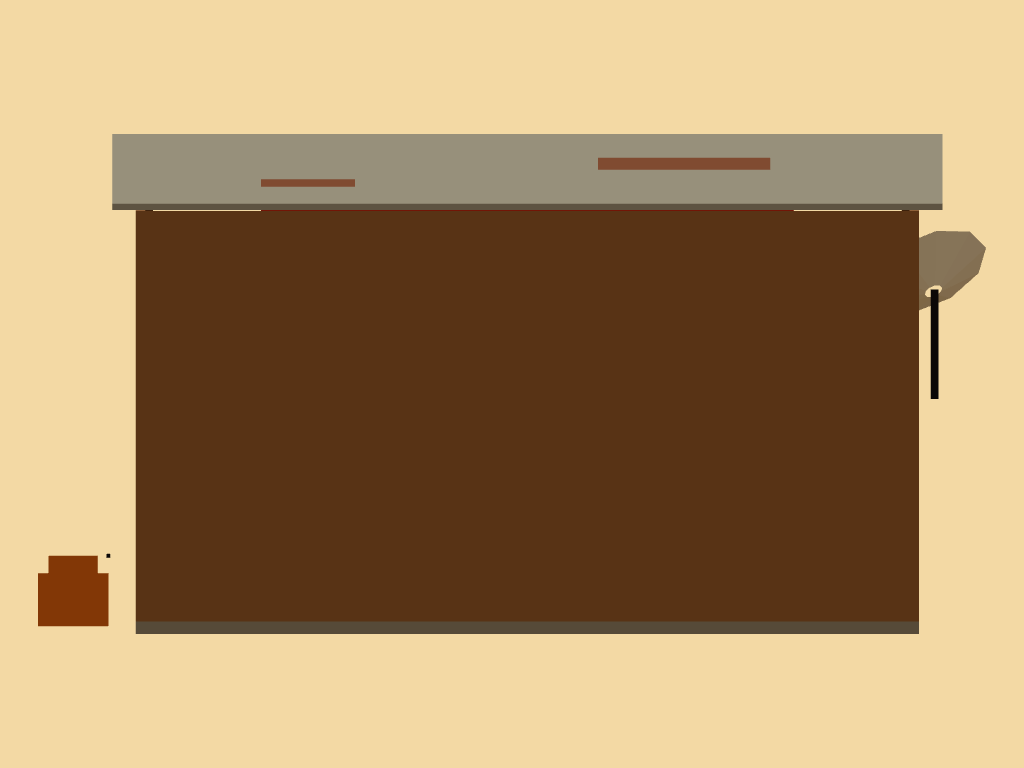
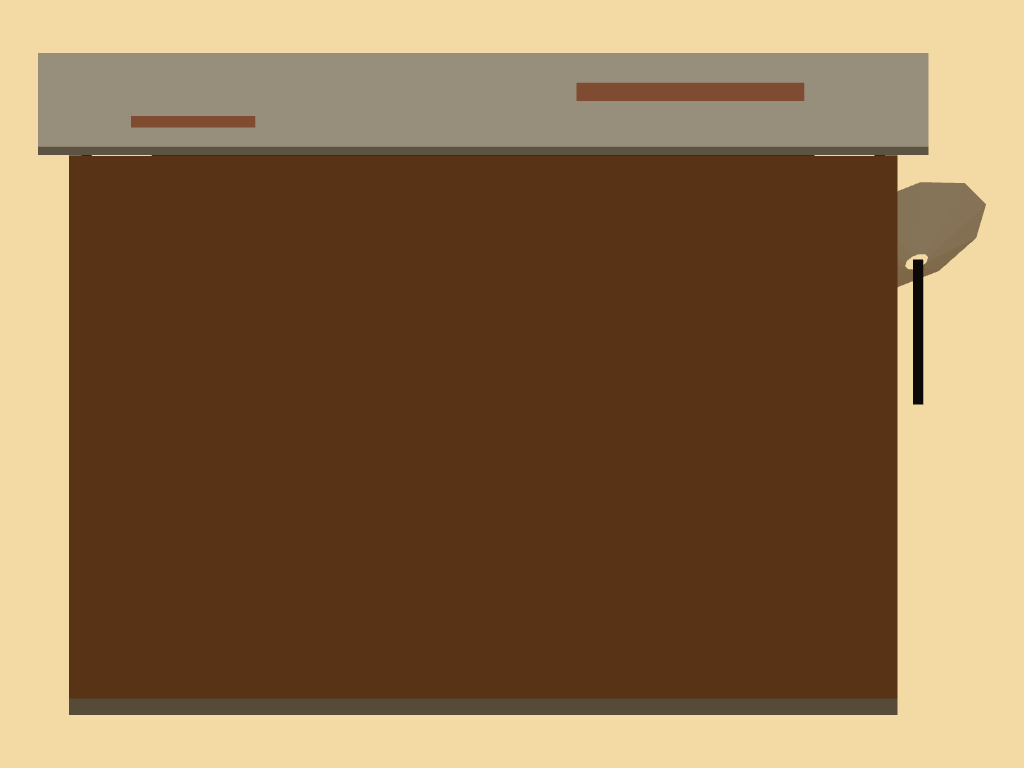
The street's things stand on Ojuelegba, Bode Thomas and Tejuosho, each opening its act
- The suya spot and the mallam's bench, the barber, the viewing centre, the joint and the clothes stall

diff --git a/apps/client/src/features/city/places/street-things.test.ts b/apps/client/src/features/city/places/street-things.test.ts
@@ -1,0 +1,152 @@
+// The street's things of decision 0037 (docs/rules/streets.md R-STREET-011; world.md R-WORLD-005): the suya spot
+// and the mallam's bench on Ojuelegba, the barber, the viewing centre and the joint on Bode Thomas, the clothes stall
+// at Tejuosho. Each stands on the pavement as a model the player taps, opens the act content stages there, and keeps
+// the hours the world's clock gives it (clock.md R-CLOCK-033). Bode Thomas's whole frontage is checked in cargo.test.ts;
+// Ojuelegba's and Tejuosho's here on what the new things touch: the budget, the ground, the floors and the staged acts.
+import { type Footprint, isFootprint } from "@japacity/assets";
+import { content, text } from "@japacity/content";
+import type { Id } from "@japacity/sim";
+import { describe, expect, test } from "vitest";
+
+import bodeRaw from "../../../../public/assets/places/bode-thomas-front/place.json";
+import ojuelegbaRaw from "../../../../public/assets/places/ojuelegba-front/place.json";
+import tejuoshoRaw from "../../../../public/assets/places/tejuosho-front/place.json";
+import type { Act, Thing } from "../../../shared/world/contract";
+import { plainActLine } from "../actLines";
+import type { Stage } from "../placeFile";
+import { sceneWords } from "../scene.words";
+import { thingSpot, thingsNow } from "../things";
+import { checkFaces, type ModelFace } from "../../../../../../tools/assets/faces-check";
+import { checkWalkable } from "../../../../../../tools/assets/footprint-check";
+import { actEntries } from "./frontageTesting";
+import { instancesOf, measured, rowOf, staged, totalsOf } from "./placeTesting";
+
+interface Expected {
+  thing: string;
+  model: string;
+  name: string;
+  act: Act;
+}
+
+const STREETS: { raw: unknown; id: Id<"place">; things: Expected[] }[] = [
+  {
+    raw: ojuelegbaRaw,
+    id: "place.ojuelegba",
+    things: [
+      { thing: "suya", model: "shared/prop/prop_suya-grill.glb", name: "Suya spot", act: { id: "suya", label: "city.act.suya", kind: "sheet", stages: "activity.buy-suya" } },
+      { thing: "tea", model: "places/peckham/prop_street-bench.glb", name: "The mallam's bench", act: { id: "tea", label: "city.act.tea", kind: "sheet", stages: "activity.mallam-tea", more: ["activity.pure-water"], pose: "sit" } },
+    ],
+  },
+  {
+    raw: bodeRaw,
+    id: "place.bode-thomas",
+    things: [
+      { thing: "barber", model: "places/bode-thomas/shop_barber-kiosk.glb", name: "Barber", act: { id: "cut", label: "city.act.barber", kind: "sheet", stages: "activity.barber" } },
+      { thing: "viewing", model: "places/bode-thomas/shop_viewing-centre.glb", name: "Viewing centre", act: { id: "match", label: "city.act.match", kind: "sheet", stages: "activity.viewing-centre", parts: ["evening", "night"], pose: "sit" } },
+      { thing: "joint", model: "shared/prop/prop_joint-set.glb", name: "The joint", act: { id: "drink", label: "city.act.joint", kind: "sheet", stages: "activity.beer-joint", more: ["activity.night-out"], parts: ["evening", "night"], pose: "sit" } },
+    ],
+  },
+  {
+    raw: tejuoshoRaw,
+    id: "place.tejuosho-market",
+    things: [{ thing: "clothes", model: "places/tejuosho-market/prop_market-stall.glb", name: "Clothes stall", act: { id: "clothes", label: "city.act.clothes", kind: "sheet", stages: "activity.buy-clothes" } }],
+  },
+];
+
+/** The raised strips either side of the carriageway: the kerbs, nearest the street's middle. */
+function carriageway(stage: Stage): [number, number] {
+  const kerbs = stage.roads.filter((road) => road.raise !== undefined && road.colour === "concrete").map((road) => road.at[1]);
+  return [Math.min(...kerbs), Math.max(...kerbs)];
+}
+
+function thingOf(stage: Stage, id: string): Thing {
+  const found = (stage.things ?? []).find((thing) => thing.id === id);
+  if (found === undefined) throw new Error(`No ${id}`);
+  return found;
+}
+
+describe.each(STREETS)("the street's things at $id", ({ raw, id, things }) => {
+  const { file, stage, entry } = staged(raw, id);
+
+  test.each(things)(`[R-WORLD-005] [R-STREET-011] given ${id}'s $thing, when it is read, then it stands at its own model with its name and the one act that opens what content stages there`, ({ thing: thingId, model, name, act }) => {
+    const thing = thingOf(stage, thingId);
+    expect(thing.file).toBe(model);
+    expect(sceneWords(thing.label)).toBe(name);
+    const { seat, ...rest } = thing.acts[0] ?? act;
+    expect(thing.acts).toHaveLength(1);
+    expect(rest).toEqual(act);
+    expect(seat === undefined).toBe(act.pose === undefined);
+    for (const stages of [act.stages ?? "", ...(act.more ?? [])]) {
+      expect(entry.stages).toContain(stages);
+      expect(content.activity[stages as Id<"activity">]).toBeDefined();
+      expect(text[`${stages}.name`]?.trim()).toBeTruthy();
+    }
+  });
+
+  test.each(things)(`[R-WORLD-005] [R-STREET-011] given ${id}'s $thing, when its model and its spots are read, then the model stands on a pavement clear of the carriageway, the thing is beside it and a seat is on the model`, ({ thing: thingId }) => {
+    const thing = thingOf(stage, thingId);
+    const copy = stage.models.find((model) => model.file === thing.file)?.at[thing.copy];
+    if (copy === undefined) throw new Error(`${thingId} has no copy`);
+    const [north, south] = carriageway(stage);
+    expect(copy[1] < north - 1 || copy[1] > south + 1).toBe(true);
+    const spot = thingSpot(stage, thing);
+    if (spot === null || thing.at === undefined) throw new Error(`${thingId} names no spot`);
+    expect(Math.hypot(thing.at[0] - copy[0], thing.at[1] - copy[1])).toBeLessThan(3.5);
+    const seat = thing.acts[0]?.seat;
+    expect(seat === undefined || Math.hypot(seat[0] - copy[0], seat[1] - copy[1]) < 2).toBe(true);
+  });
+
+  test(`[R-ASSET-007] given ${id} with its new things, when the frontage is counted as the build check counts it, then both modes stay inside the exterior row and the instances are the copies staged`, async () => {
+    const totals = await totalsOf(file);
+    for (const mode of ["low", "high"] as const) {
+      expect(totals[mode].drawCalls).toBeLessThanOrEqual(rowOf(file).drawCalls);
+      expect(totals[mode].triangles).toBeLessThanOrEqual(rowOf(file).triangles);
+    }
+    expect(file.instances).toEqual(instancesOf(stage));
+  });
+
+  test(`[R-WORLD-005] [R-STREET-011] given what ${id} stages in content, when its things' acts are read, then every staged entry opens from an act of a thing there`, () => {
+    const opened = new Set(actEntries(raw, id));
+    expect(entry.stages.filter((stages) => !opened.has(stages))).toEqual([]);
+  });
+
+  test(`[R-CITY-014] [R-WORLD-012] [R-ASSET-030] given ${id}'s models with the new things, when the ground is read, then the crowd and the start stand clear of every footprint and no two floors lie within a centimetre`, async () => {
+    const models = [...new Set(stage.models.map((model) => model.file))];
+    const footprints = new Map<string, Footprint>();
+    const floors = new Map<string, readonly ModelFace[]>();
+    for (const path of models) {
+      const found = await measured(path);
+      if (isFootprint(found.extras.footprint)) footprints.set(path, found.extras.footprint);
+      floors.set(path, found.floors ?? []);
+    }
+    expect(checkWalkable(id, stage, footprints)).toEqual([]);
+    expect(checkFaces(id, stage, (path) => floors.get(path) ?? [])).toEqual([]);
+  });
+});
+
+describe("the hours on Bode Thomas", () => {
+  const { stage } = staged(bodeRaw, "place.bode-thomas");
+  const street = stage.things ?? [];
+  const all = () => true;
+
+  test("[R-CLOCK-033] [R-WORLD-005] [R-STREET-011] given the viewing centre and the joint, when the world stands in the evening or at night, then each opens its sheet and sits the figure on its bench or chair", () => {
+    for (const part of ["evening", "night"] as const) {
+      const now = thingsNow(street, all, part);
+      expect(thingOf({ ...stage, things: now }, "viewing").acts[0]).toMatchObject({ kind: "sheet", stages: "activity.viewing-centre", pose: "sit" });
+      expect(thingOf({ ...stage, things: now }, "joint").acts[0]).toMatchObject({ kind: "sheet", stages: "activity.beer-joint", more: ["activity.night-out"], pose: "sit" });
+    }
+  });
+
+  test("[R-CLOCK-033] [R-WORLD-005] [R-STREET-011] given the viewing centre and the joint, when the world stands in the morning or the afternoon, then both still stand shut, saying they open in the evening and why, while the barber stays open", () => {
+    for (const part of ["morning", "afternoon"] as const) {
+      const now = { ...stage, things: thingsNow(street, all, part) };
+      const viewing = thingOf(now, "viewing");
+      const joint = thingOf(now, "joint");
+      expect(viewing.acts.map((act) => sceneWords(act.label))).toEqual(["Opens in the evening"]);
+      expect(joint.acts.map((act) => sceneWords(act.label))).toEqual(["Opens in the evening"]);
+      expect(plainActLine(viewing, viewing.acts[0] ?? { label: "" })).toEqual({ kind: "tell", words: "Shut till evening. The screen is dark." });
+      expect(plainActLine(joint, joint.acts[0] ?? { label: "" })).toEqual({ kind: "tell", words: "The chairs are stacked. Come back in the evening." });
+      expect(thingOf(now, "barber").acts[0]?.stages).toBe("activity.barber");
+    }
+  });
+});

diff --git a/assets-src/shop/viewing-centre/build.ts b/assets-src/shop/viewing-centre/build.ts
@@ -6,10 +6,10 @@ import { setFootprint } from "@japacity/assets";
 import { box, cylinder, dish, extrude, floorQuad, generator, onWall, posters, quad, seeded, stain } from "@japacity/assets/kit";
 import { Group, type Mesh } from "three";
 
-export const VIEWING_CENTRE = { width: 5.0, depth: 4.2, front: 3.1, back: 2.7, slab: 0.08, seat: 0.44 } as const;
+export const VIEWING_CENTRE = { width: 4.0, depth: 3.6, front: 3.1, back: 2.7, slab: 0.08, seat: 0.44 } as const;
 
 /** The benches' rows, front to back: the z of each bench's middle in the shed's frame. */
-export const VIEWING_ROWS: readonly number[] = [-0.55, 0.35, 1.25];
+export const VIEWING_ROWS: readonly number[] = [-0.55, 0.25, 1.05];
 
 /** A disc facing +Z: a cylinder laid on its side. */
 function disc(g: Group, r: number, x: number, y: number, z: number, colour: "white" | "black", segments = 8): Mesh {
@@ -54,36 +54,36 @@ export function buildViewingCentre(dishYaw: number): Group {
   floorQuad(roof, 0.6, 0.5, 1.4, 0.045, -0.9, "zincRust");
   // The wide dark screen on the back wall, its frame, the decoder on a shelf under it and the cables down the wall.
   const wall = onWall(g, 0, 0, -hd + 0.061);
-  box(wall, 2.3, 1.3, 0.08, 0, 1.15, 0.04, "black");
-  quad(wall, 2.14, 1.16, 0, 1.22, 0.081, "glass");
+  box(wall, 2.1, 1.2, 0.08, 0, 1.2, 0.04, "black");
+  quad(wall, 1.94, 1.06, 0, 1.27, 0.081, "glass");
   box(wall, 0.6, 0.04, 0.28, 0, 0.82, 0.14, "darkWood");
   box(wall, 0.36, 0.07, 0.22, -0.08, 0.86, 0.14, "black");
-  quad(wall, 0.03, 0.8, 1.05, 0.08, 0.004, "black");
+  quad(wall, 0.03, 0.85, 0.95, 0.08, 0.004, "black");
   // Three rows of benches facing the screen: a plank seat on three trestles each.
   for (const bz of VIEWING_ROWS) {
-    box(g, 3.6, 0.05, 0.32, 0, slab + seat - 0.05, bz, "wood");
-    for (const bx of [-1.6, 0, 1.6]) box(g, 0.08, seat - 0.05, 0.28, bx, slab, bz, "darkWood");
+    box(g, 3.0, 0.05, 0.32, 0, slab + seat - 0.05, bz, "wood");
+    for (const bx of [-1.3, 0, 1.3]) box(g, 0.08, seat - 0.05, 0.28, bx, slab, bz, "darkWood");
   }
   // The hand-painted board over the opening: yellow, edged red, a ball in the middle, the flag's green and white either side.
   const board = onWall(g, 0, 0, hd + 0.02);
   const low = front - 0.86;
-  box(board, 3.4, 0.7, 0.05, 0, low, 0, "red");
-  quad(board, 3.28, 0.58, 0, low + 0.06, 0.026, "danfoYellow");
+  box(board, 3.2, 0.7, 0.05, 0, low, 0, "red");
+  quad(board, 3.08, 0.58, 0, low + 0.06, 0.026, "danfoYellow");
   disc(board, 0.24, 0, low + 0.35, 0.04, "white");
   for (const [px, py] of [[0, 0.04], [-0.12, -0.08], [0.12, -0.08]] as const) disc(board, 0.06, px, low + 0.35 + py, 0.052, "black", 5);
   for (const side of [-1, 1]) {
-    for (const [i, colour] of (["green", "white", "green"] as const).entries()) quad(board, 0.26, 0.4, side * (0.85 + i * 0.26), low + 0.15, 0.03, colour);
+    for (const [i, colour] of (["green", "white", "green"] as const).entries()) quad(board, 0.26, 0.4, side * (0.78 + i * 0.26), low + 0.15, 0.03, colour);
   }
-  // The dish on a bracket on the left wall, the generator against the right wall, posters and rust on the left.
+  // The dish on a bracket on the left wall, the generator in the back corner behind the benches, posters and rust on the left.
   dish(g, onWall(g, -hw - 0.04, 0, 0, -Math.PI / 2), 1.3, 1.5, 0.06, dishYaw + Math.PI / 2);
-  generator(g, hw + 0.4, 0, -0.8, false, -Math.PI / 2, "orange");
+  generator(g, hw - 0.4, slab, -hd + 0.4, false, -Math.PI / 2, "orange");
   posters(left, -0.8, 1.1, random, 3);
   stain(left, 0, slab, d, 0.4, "darkWood");
-  // The shed's walls, its posts and the generator; the benches are seats inside, and the board and the roof pass overhead.
+  // The shed's walls and the generator; the benches are seats inside, and the board and the roof pass overhead.
   return setFootprint(g, [
     { x: 0, z: -hd + 0.03, width: w, depth: 0.1 },
     { x: -hw + 0.03, z: 0, width: 0.1, depth: d },
     { x: hw - 0.03, z: 0, width: 0.1, depth: d },
-    { x: hw + 0.4, z: -0.8, width: 0.5, depth: 0.65 },
+    { x: hw - 0.4, z: -hd + 0.4, width: 0.5, depth: 0.65 },
   ]);
 }

diff --git a/assets-src/prop/joint-set/build.ts b/assets-src/prop/joint-set/build.ts
@@ -39,7 +39,7 @@ export function buildJointSet(): Group {
   // The low table on its one leg and cross foot, bottles and glasses on it.
   box(g, table, 0.04, table, 0, tableTop - 0.04, 0, "wood");
   box(g, 0.06, tableTop - 0.04, 0.06, 0, 0, 0, "darkWood");
-  for (const turn of [0, Math.PI / 2]) box(g, 0.5, 0.03, 0.06, 0, 0, 0, "darkWood", turn);
+  for (const turn of [0, Math.PI / 2]) box(g, 0.5, turn === 0 ? 0.05 : 0.07, 0.06, 0, 0, 0, "darkWood", turn);
   for (const [bx, bz, colour] of [[-0.12, 0.06, "green"], [0.1, -0.08, "darkWood"], [0.14, 0.12, "green"]] as const) {
     cylinder(g, 0.035, 0.22, bx, tableTop, bz, colour, 6, 0.03);
     cylinder(g, 0.014, 0.07, bx, tableTop + 0.22, bz, colour, 4);
